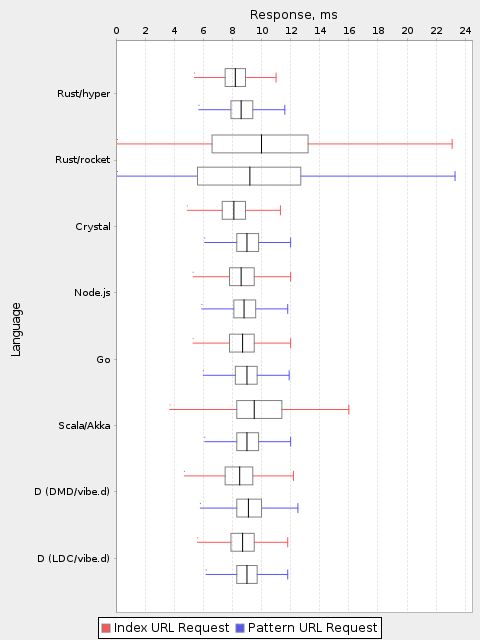
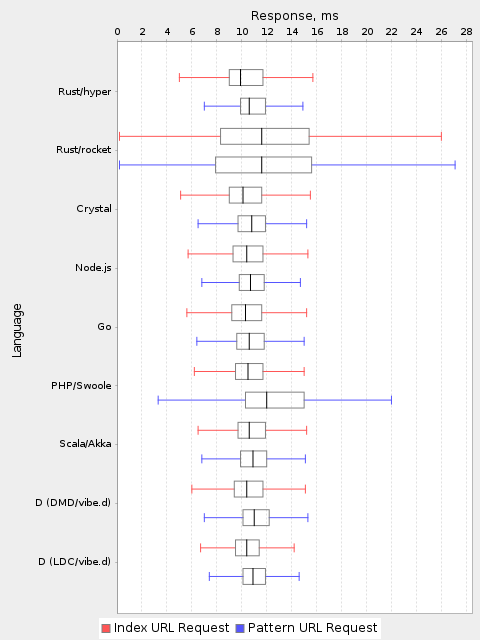
WSL results have been updated.

diff --git a/README.md b/README.md
@@ -21,8 +21,8 @@ OS: Microsoft Windows [Version 10.0.15063]
 
 Hardware: Dell XPS (CPU: 2.6 GHz Intel Core i7, Mem: 16 GB 2133 MHz DDR4)
 
-Software: Go 1.9, Rust 1.22.0-nightly, Scala 2.12.3, Node.js 8.6.0, DMD 2.076.0,
-LDC 1.4.0, Crystal 0.23.1 (under WSL).
+Software: Go 1.9.3, Rust 1.25.0-nightly, Scala 2.12.4, Node.js 9.4.0, DMD 2.078.1,
+LDC 1.7.0, Crystal 0.24.1 (under WSL).
 
 ![](suite/results/win.png?raw=true)
 
@@ -32,8 +32,8 @@ OS: 4.4.0-43-Microsoft GNU/Linux
 
 Hardware: Dell XPS (CPU: 2.6 GHz Intel Core i7, Mem: 16 GB 2133 MHz DDR4)
 
-Software: Go 1.9, Rust 1.22.0-nightly, Scala 2.12.3, Node.js 8.6.0, DMD 2.076.0,
-LDC 1.4.0, Crystal 0.23.1.
+Software: Go 1.9.2, Rust 1.25.0-nightly, Scala 2.12.4, Node.js 9.4.0, DMD 2.078.1,
+LDC 1.7.0, Crystal 0.24.1, PHP 7.0.22.
 
 ![](suite/results/wsl.png?raw=true)
 
